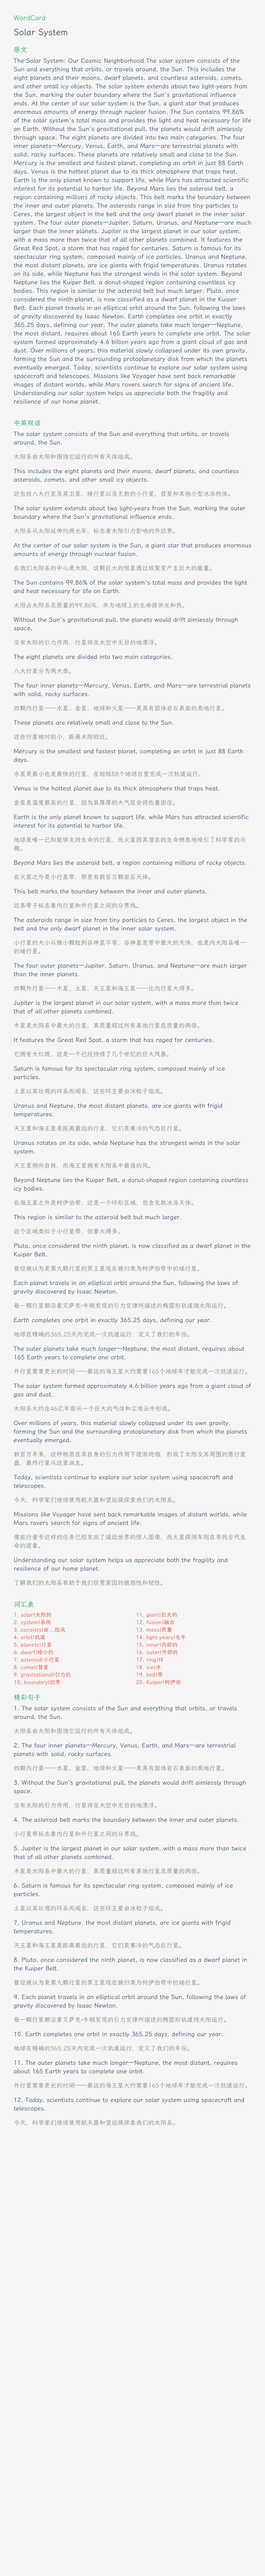
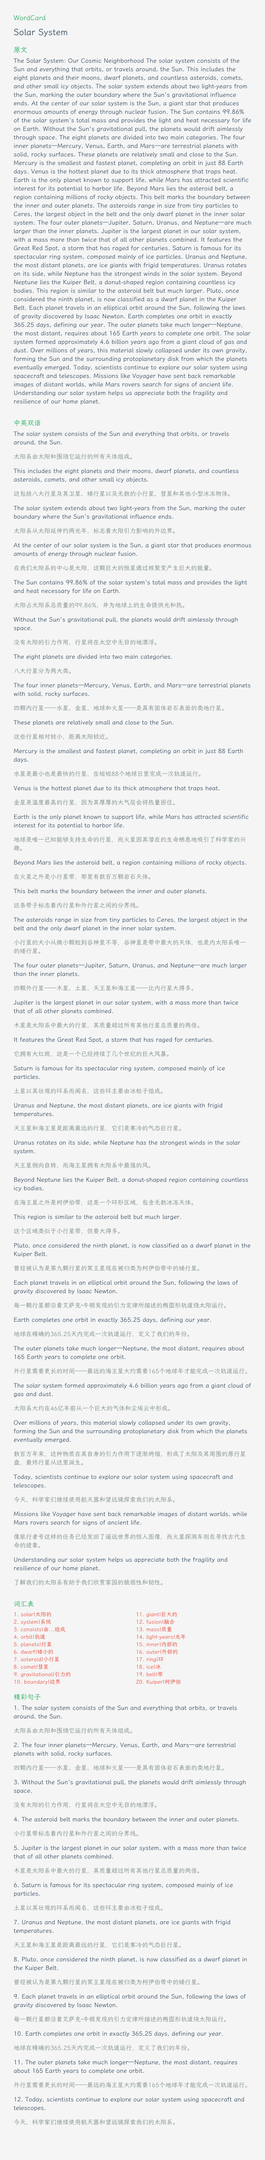
fix: reduce height margin to +40px

diff --git a/generate_card.py b/generate_card.py
@@ -252,7 +252,7 @@ def create_png(sections, output_path):
             y += len(wl) * line_h(fs)
         return y + MARGIN
 
-    H = int(est_h() * 1.2)
+    H = est_h() + 40
     c = txt2png.Canvas(W, H, BG)
     y = MARGIN
     bl = y + asc_wrapped(font_path, FS_LABEL)

diff --git a/output/solar_system_trans.md b/output/solar_system_trans.md
@@ -1,6 +1,6 @@
 # Solar System
 
-> 2026-07-26 07:02:42
+> 2026-07-26 07:04:30
 
 ---
 
